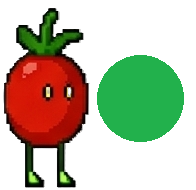
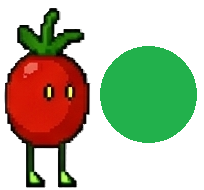
Added remaining characters and damage per NPC type

diff --git a/src/configs.py b/src/configs.py
@@ -57,5 +57,50 @@ CONFIGS = {
             "walk_right": [1, 2, 4],
             "jump_right": [2]
         }
+    },
+
+    "bokchoy": {
+        "frame_width": 94,
+        "frame_height": 184,
+        "rows": 1,
+        "cols": 6,
+        "animations": {
+            "idle_left": [0],
+            "walk_left": [0, 3, 5],
+            "jump_left": [3],
+            "idle_right": [1],
+            "walk_right": [1, 2, 4],
+            "jump_right": [2]
+        }
+    },
+
+    "pumpkin": {
+        "frame_width": 94,
+        "frame_height": 177,
+        "rows": 1,
+        "cols": 6,
+        "animations": {
+            "idle_left": [0],
+            "walk_left": [0, 3, 5],
+            "jump_left": [3],
+            "idle_right": [1],
+            "walk_right": [1, 2, 4],
+            "jump_right": [2]
+        }
+    },
+
+    "broccoli": {
+        "frame_width": 101,
+        "frame_height": 178,
+        "rows": 1,
+        "cols": 6,
+        "animations": {
+            "idle_left": [0],
+            "walk_left": [0, 3, 5],
+            "jump_left": [3],
+            "idle_right": [1],
+            "walk_right": [1, 2, 4],
+            "jump_right": [2]
+        }
     }
 }

diff --git a/src/NPC.py b/src/NPC.py
@@ -7,46 +7,77 @@ class NPC:
     NPC_TYPES = {
         'carrot': {
             'speed': 3,
-            'health': 8,
+            'health': 5,
+            'damage': 1,
             'scale': 1,
             'sprite': 'assets/images/Characters/Carrot_75x110.png'
         },
         'potato': {
             'speed': 2,
-            'health': 5,
+            'health': 7,
+            'damage': 1,
             'scale': 1,
             'sprite': 'assets/images/Characters/Potato_83x94.png'
         },
         'onion': {
             'speed': 2,
             'health': 5,
+            'damage': 1,
             'scale': 2,
             'sprite': 'assets/images/Characters/Onion_34x34.png'
         },
         'tomato': {
             'speed': 7,
             'health': 3,
+            'damage': 1,
             'scale': 0.6,
             'sprite': 'assets/images/Characters/Tomato_94x190.png'
+        },
+        'bokchoy': {
+            'speed': 5,
+            'health': 5,
+            'damage': 2,
+            'scale': 0.6,
+            'sprite': 'assets/images/Characters/BokChoy_94x184.png'
+        },
+        'pumpkin': {
+            'speed': 4.5,
+            'health': 12,
+            'damage': 3,
+            'scale': 0.6,
+            'sprite': 'assets/images/Characters/Pumpkin_94x177.png'
+        },
+        'broccoli': {
+            'speed': 9,
+            'health': 6,
+            'damage': 1,
+            'scale': 0.6,
+            'sprite': 'assets/images/Characters/Broccoli_101x178.png'
         }
     }
 
     NPC_CONFIG = {
         'carrot': (75, 110, 'carrot', 3, 'enemy'),
-        'potato': (83, 94, 'potato', 3, 'enemy'),
-        'tomato': (94, 190, 'tomato', 3, 'enemy'),
+        'potato': (83, 94, 'potato', 2, 'enemy'),
+        'tomato': (94, 190, 'tomato', 7, 'enemy'),
+        'bokchoy': (94, 184, 'bokchoy', 5, 'enemy'),
+        'pumpkin': (94, 177, 'pumpkin', 4.5, 'enemy'),
+        'broccoli': (101, 178, 'broccoli', 9, 'enemy'),
         'carrot_ally': (75, 110, 'carrot', 0, 'ally'),
         'potato_ally': (83, 94, 'potato', 0, 'ally'),
         'tomato_ally': (94, 190, 'tomato', 0, 'ally'),
+        'bokchoy_ally': (94, 184, 'bokchoy', 0, 'ally'),
+        'pumpkin_ally': (94, 177, 'pumpkin', 0, 'ally'),
+        'broccoli_ally': (101, 178, 'broccoli', 0, 'ally')
     }
 
-    def __init__(self, x, y, width, height, type='carrot', speed=None):
+    def __init__(self, x, y, width, height, type='carrot', speed=None, team='enemy'):
         self.x = float(x)
         self.y = float(y)
         
         npc_config = self.NPC_TYPES.get(type, self.NPC_TYPES['carrot'])
         self.type = type
-        self.team = 'enemy'
+        self.team = team
         self.recruited = False
         self.width = width * npc_config['scale']
         self.height = height * npc_config['scale']
@@ -54,6 +85,7 @@ class NPC:
         
         self.speed = speed if speed is not None else npc_config['speed']
         self.health = npc_config['health']
+        self.damage = npc_config.get('damage', 1)
         self.max_health = self.health
         sprite_path = npc_config['sprite']
         

diff --git a/src/StoryState.py b/src/StoryState.py
@@ -117,7 +117,7 @@ class StoryState:
                 if self.player.can_damage():
                     enemy.take_damage(1)
                     self.snd_damage.play()
-                self.player.take_damage(1)
+                self.player.take_damage(enemy.damage)
 
             # Tear Collision
             for tear in self.player.tears[:]:
@@ -136,8 +136,8 @@ class StoryState:
 
             for ally in self.ally_list:
                 if ally.recruited and ally.can_damage() and self.mask_collision(ally, enemy):
-                    enemy.take_damage(1)
-                    ally.take_damage(1)
+                    enemy.take_damage(ally.damage)
+                    ally.take_damage(enemy.damage)
                     self.snd_damage.play()
                     
         keys = pygame.key.get_pressed()
@@ -196,8 +196,7 @@ class StoryState:
                 print(f"Total nutrients collected: {self.state_machine.get_nutrients_collected()}")
 
                 # plant onion ally
-                self.ally_list.append(NPC(pot.position[0], pot.position[1], 34, 34, type='onion', speed=3))
-                self.ally_list[-1].team = 'ally'
+                self.ally_list.append(NPC(pot.position[0], pot.position[1], 34, 34, type='onion', speed=3, team='ally'))
                 self.ally_list[-1].recruited = True
                 self.pot_list.remove(pot)
                 self.snd_collect.play()
@@ -330,7 +329,7 @@ class StoryState:
             positions = game_map.get_tile_position(self.map, character, self.tile_size, True)
 
             for position in positions:
-                npc = NPC(position[0], position[1], width, height, type=npc_type, speed=speed)
+                npc = NPC(position[0], position[1], width, height, type=npc_type, speed=speed, team=team)
 
                 if team == 'ally':
                     npc.recruited = False

diff --git a/src/CustomState.py b/src/CustomState.py
@@ -98,7 +98,7 @@ class CustomState:
                 if self.player.can_damage():
                     enemy.take_damage(1)
                     self.snd_damage.play()
-                self.player.take_damage(1)
+                self.player.take_damage(enemy.damage)
 
             # Tear Collision
             for tear in self.player.tears[:]:
@@ -117,8 +117,8 @@ class CustomState:
 
             for ally in self.ally_list:
                 if ally.recruited and ally.can_damage() and self.mask_collision(ally, enemy):
-                    enemy.take_damage(1)
-                    ally.take_damage(1)
+                    enemy.take_damage(ally.damage)
+                    ally.take_damage(enemy.damage)
                     self.snd_damage.play()
                     
         keys = pygame.key.get_pressed()

diff --git a/src/tiles.py b/src/tiles.py
@@ -9,6 +9,9 @@ tile_lookup = {
     'carrot': {"image": "assets/images/Characters/carrot_static.png", "collision": False},
     'potato': {"image": "assets/images/Characters/potato_static.png", "collision": False},
     'tomato': {"image": "assets/images/Characters/tomato_static.png", "collision": False},
+    'bokchoy': {"image": "assets/images/Characters/bokchoy_static.png", "collision": False},
+    'pumpkin': {"image": "assets/images/Characters/pumpkin_static.png", "collision": False},
+    'broccoli': {"image": "assets/images/Characters/broccoli_static.png", "collision": False},
     'goal': {"image": "assets/images/Misc/door.png", "collision": False},
     'player': {"image": "assets/images/Characters/onion_static.png", "collision": False},
 
@@ -17,6 +20,9 @@ tile_lookup = {
     'potato_ally': {"image": "assets/images/Characters/potato_static_ally.png", "collision": False},
     'onion_ally': {"image": "assets/images/Characters/onion_static_ally.png", "collision": False},
     'tomato_ally': {"image": "assets/images/Characters/tomato_static_ally.png", "collision": False},
+    'bokchoy_ally': {"image": "assets/images/Characters/bokchoy_static_ally.png", "collision": False},
+    'pumpkin_ally': {"image": "assets/images/Characters/pumpkin_static_ally.png", "collision": False},
+    'broccoli_ally': {"image": "assets/images/Characters/broccoli_static_ally.png", "collision": False},
     'flower_pot': {"image": "assets/images/Misc/flower_pot.png", "collision": False},
 
     'spike': {"image": "assets/images/Misc/spike.png", "collision": False}